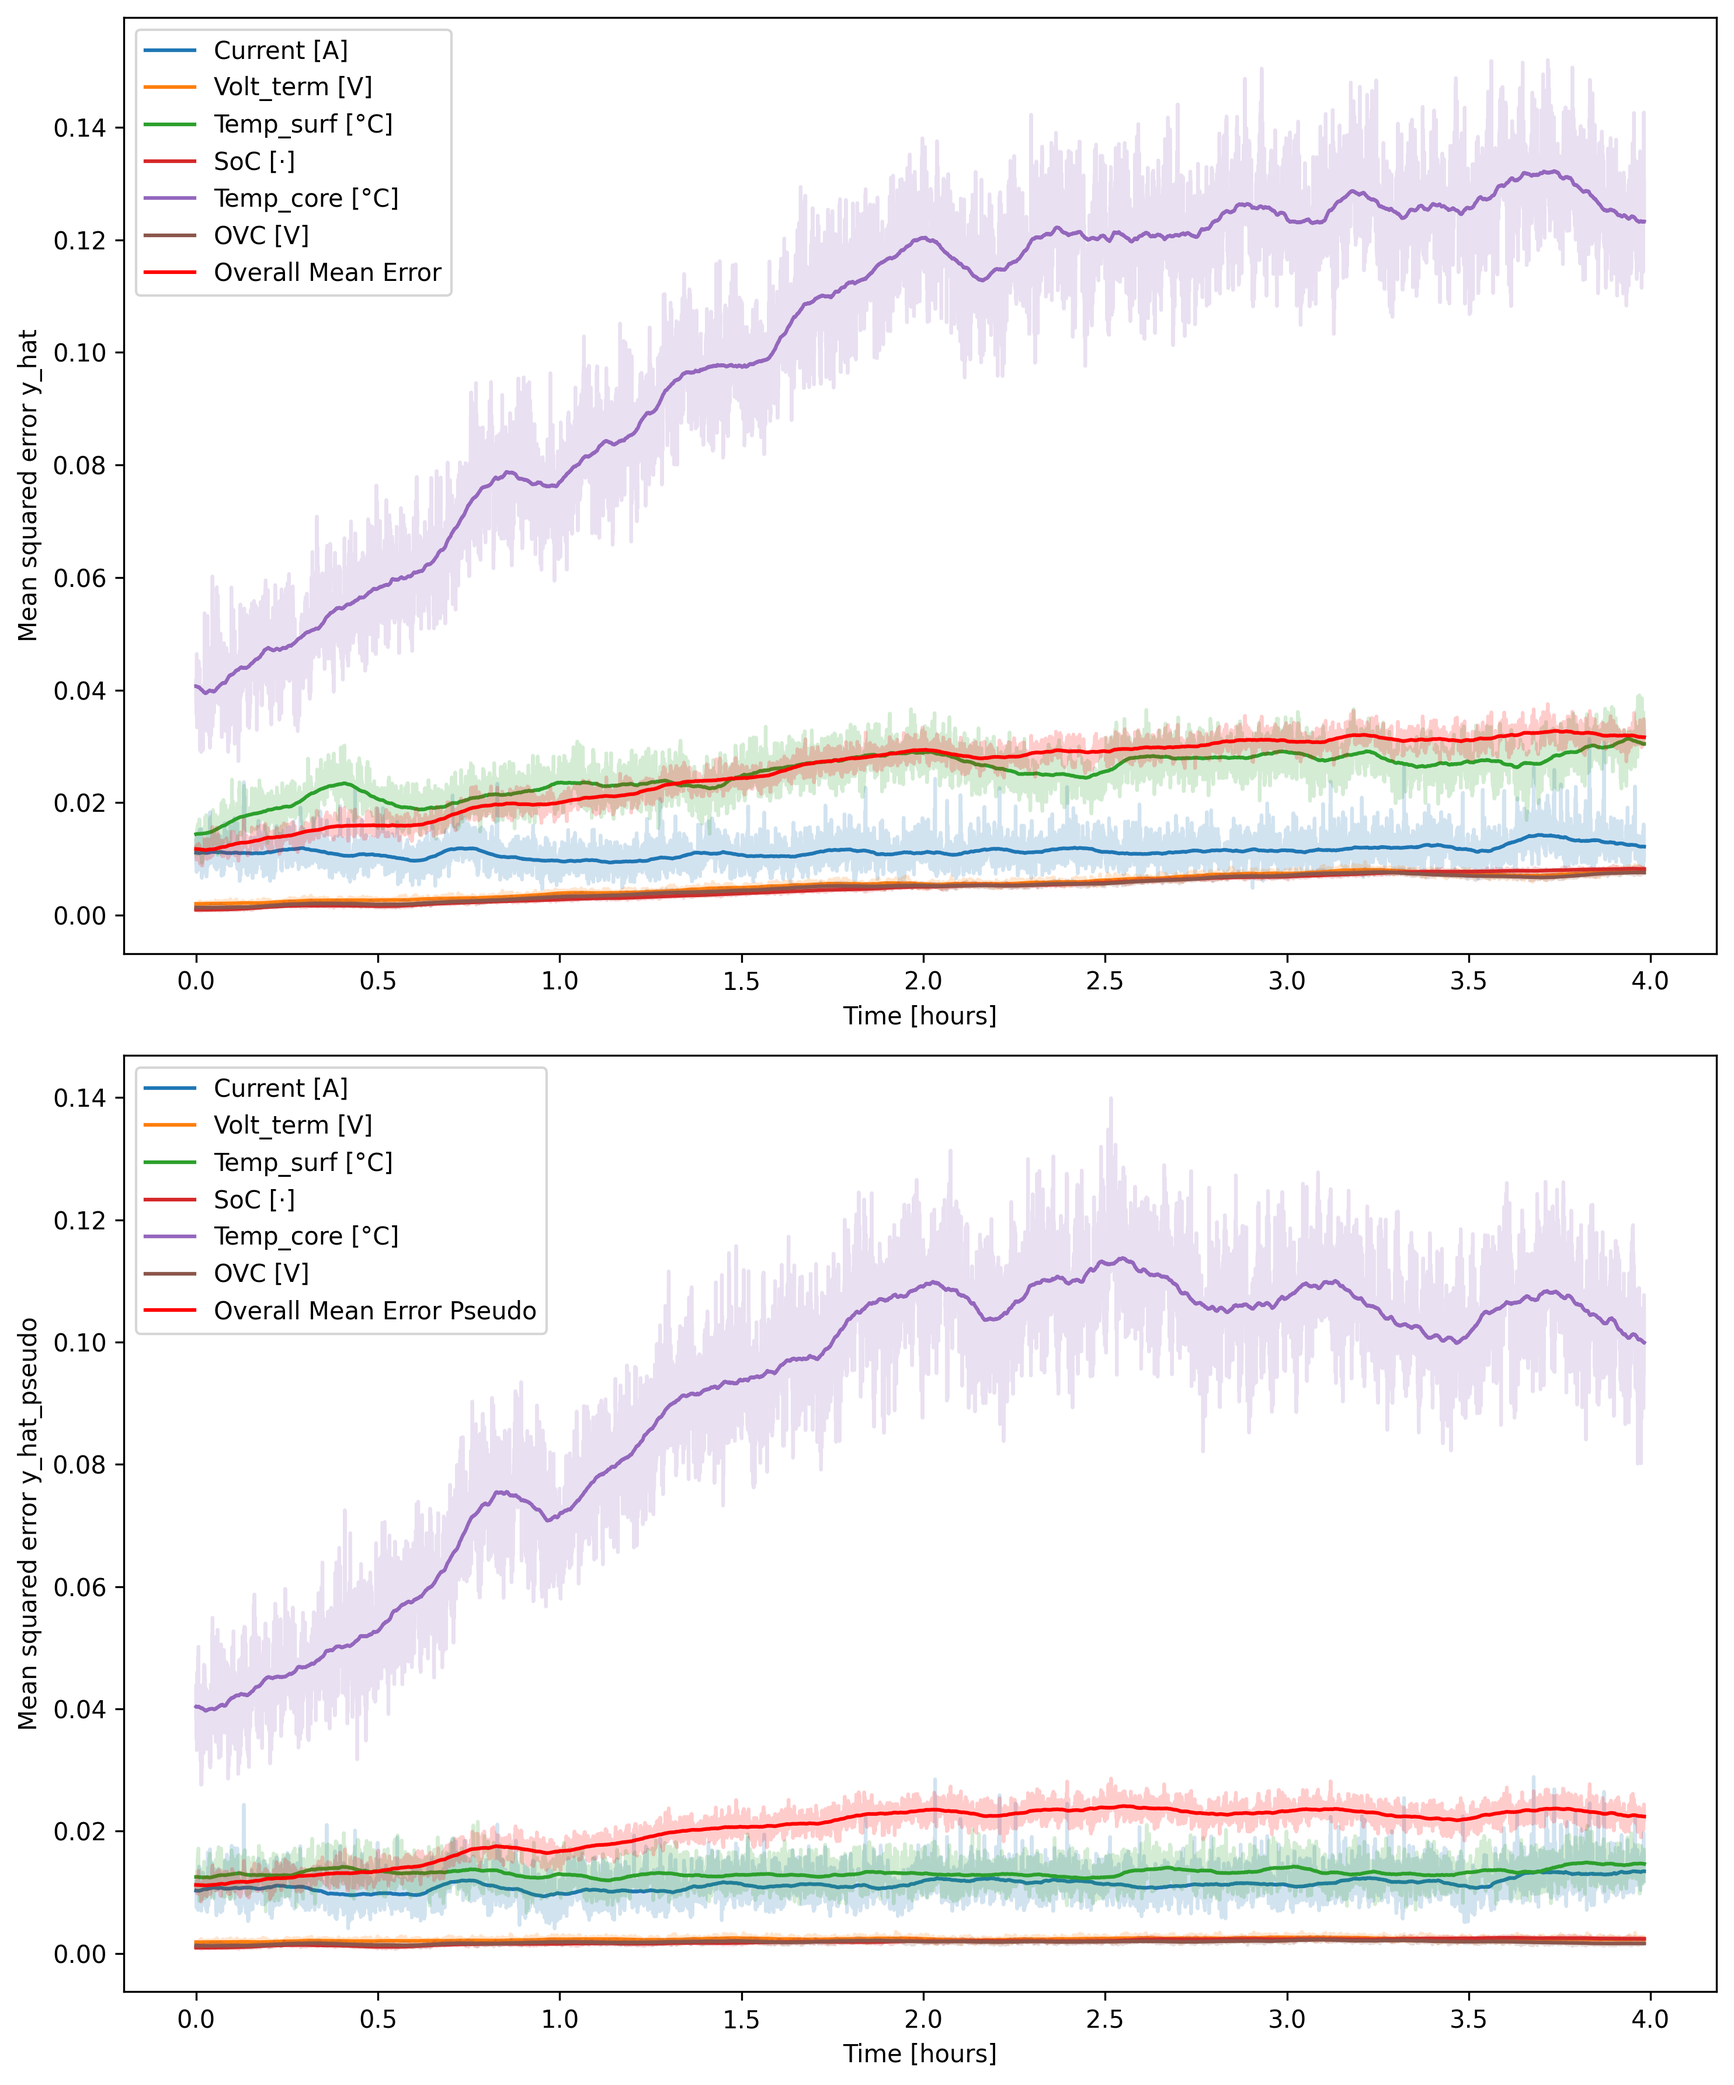
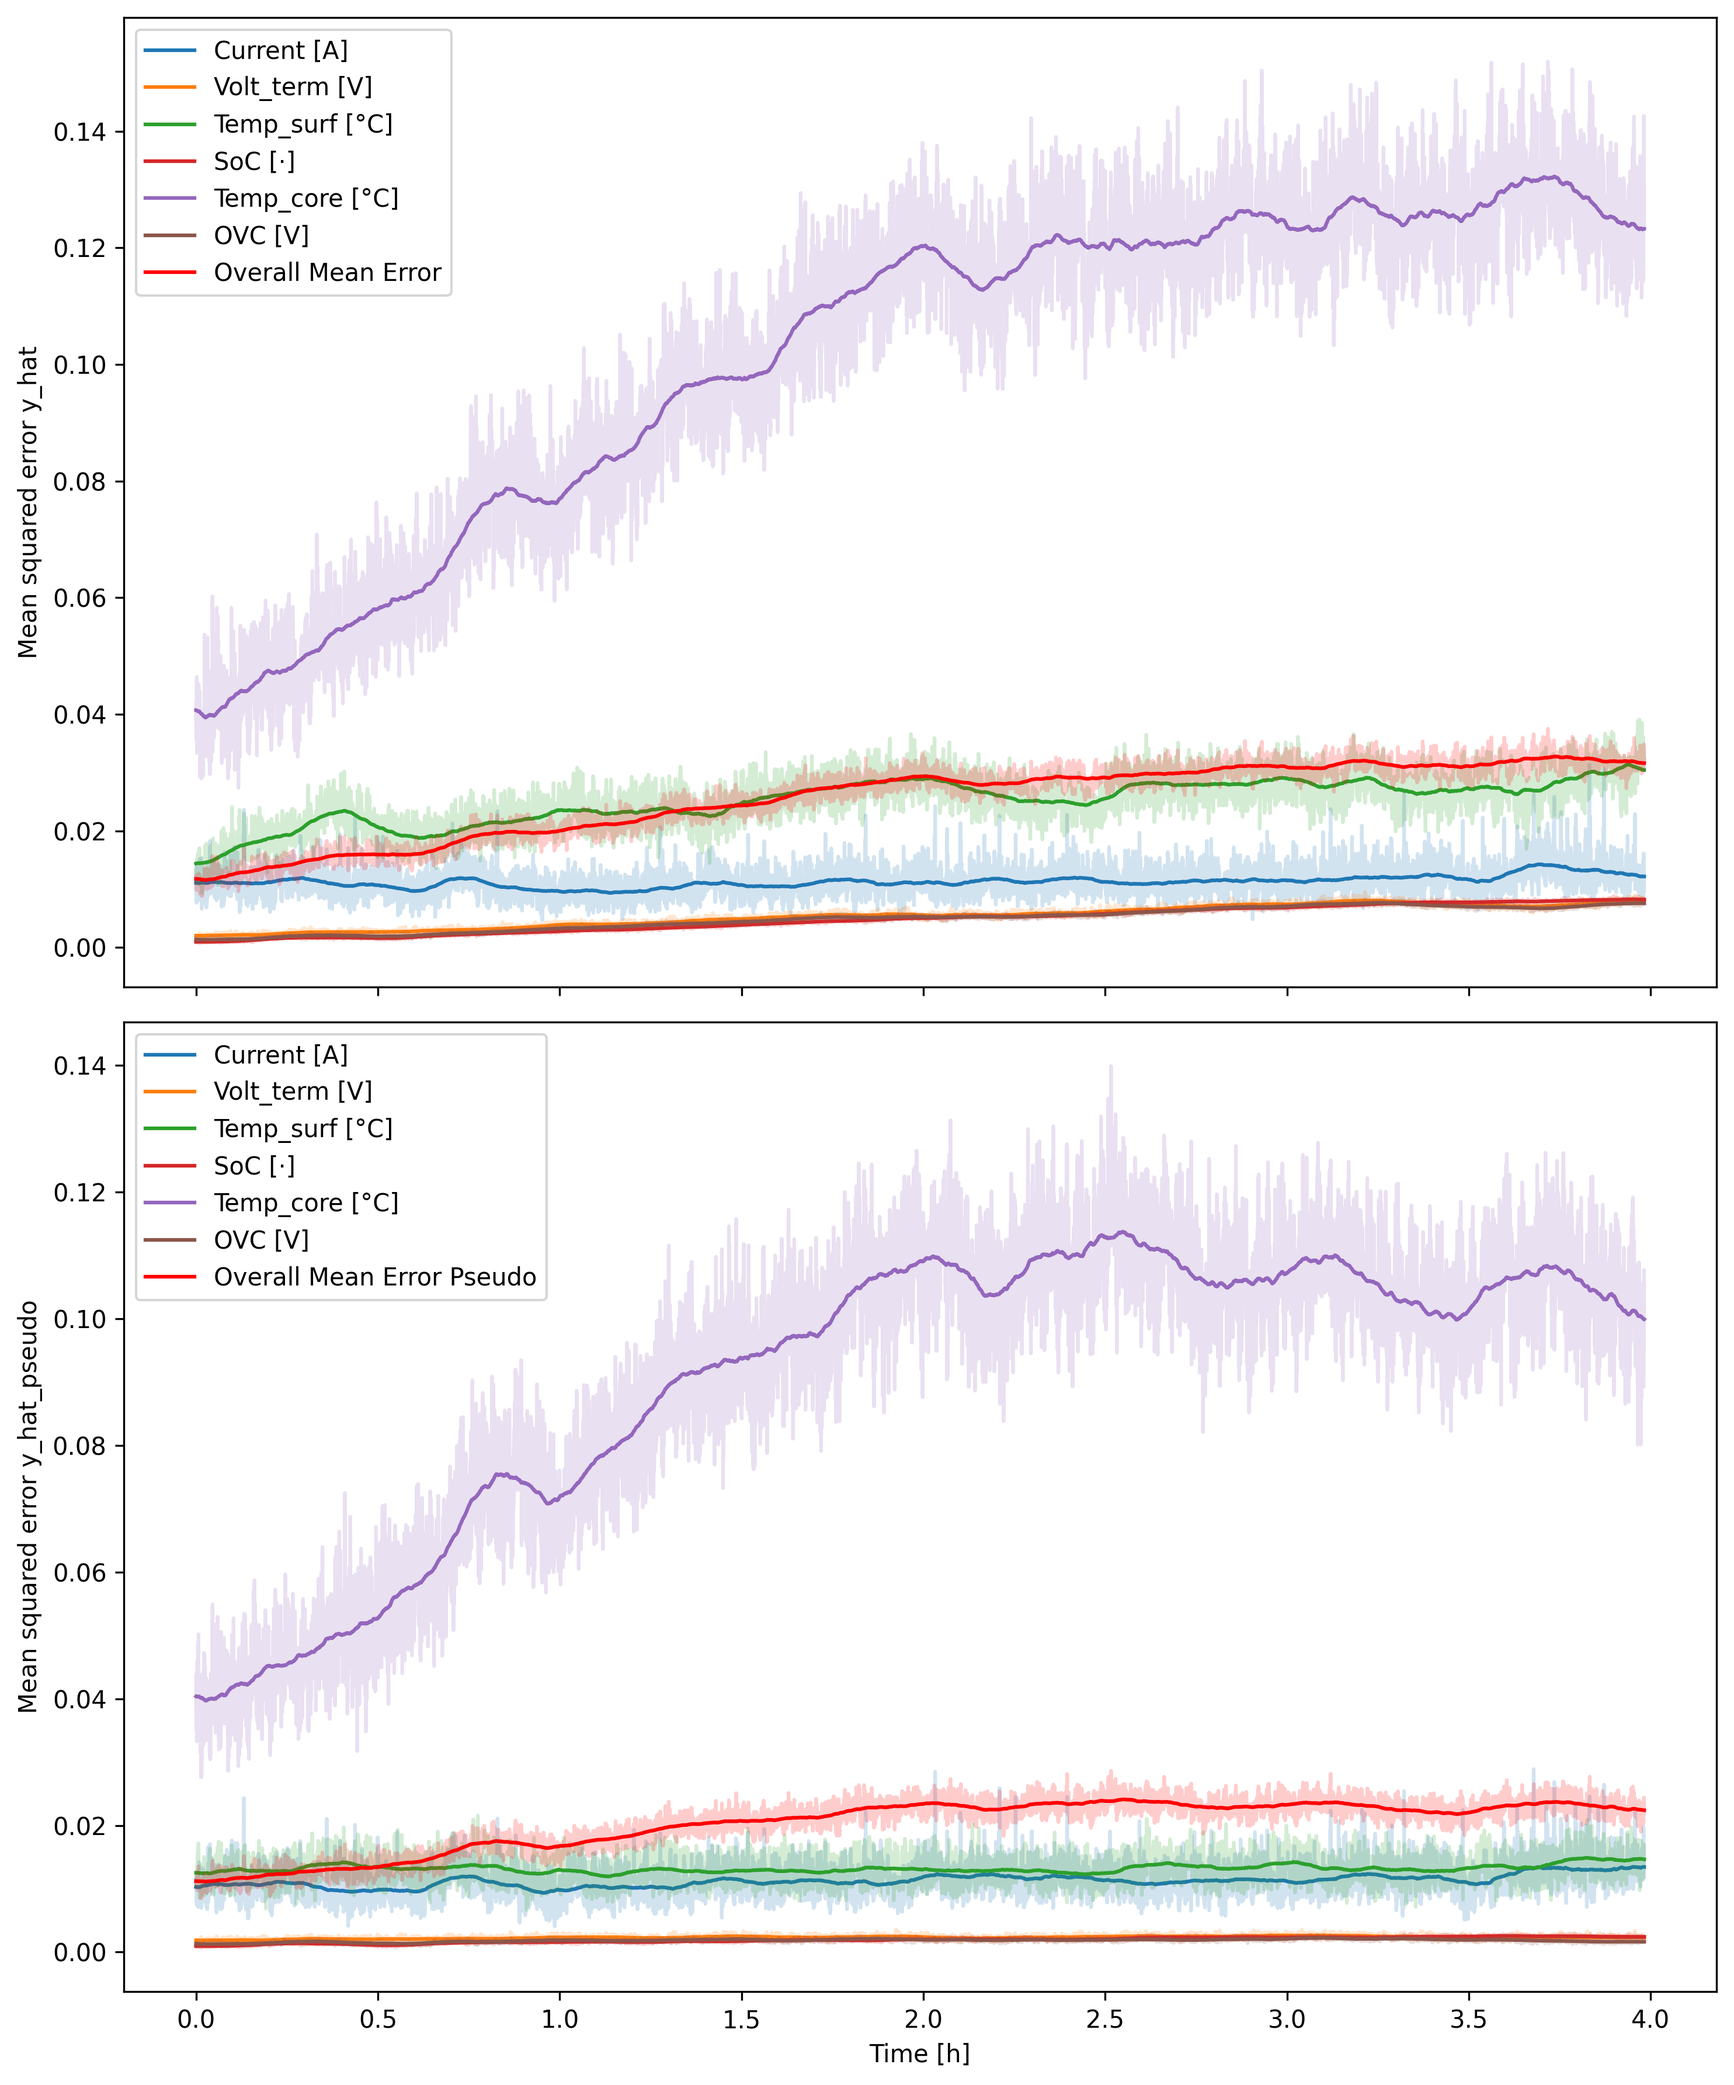
changed error plot and readme

diff --git a/README.md b/README.md
@@ -148,6 +148,18 @@ voltage and OCV. The SoC ground truth is based on Coulomb Counting and
 only a rough approximation to show the functionality, similar approach
 for the core temperature. ![outputs](./docs/outputs.png)
 
+The model prediction error shows the accuracy on a batch of 16 sequences, with
+the error averaged across the batch. The plot indicates that the model has a
+harder time when using only the current as input, compared to using current,
+terminal voltage, and surface temperature together. A positive takeaway from
+this simple analysis is that the error doesn't continuously increase over time.
+Instead, it stabilizes after a few steps, at least for the pseudo variant. This
+suggests that the model has learned the underlying behavior of the system and
+reflects this consistently across each sequence length, rather than
+accumulating an auto-regressive loss.
+
+![errors](./docs/error_plot.png)
+
 This approach supports arbitrary parameter mapping efficiently and
 enables meta capabilities as shown in different domains.
 
